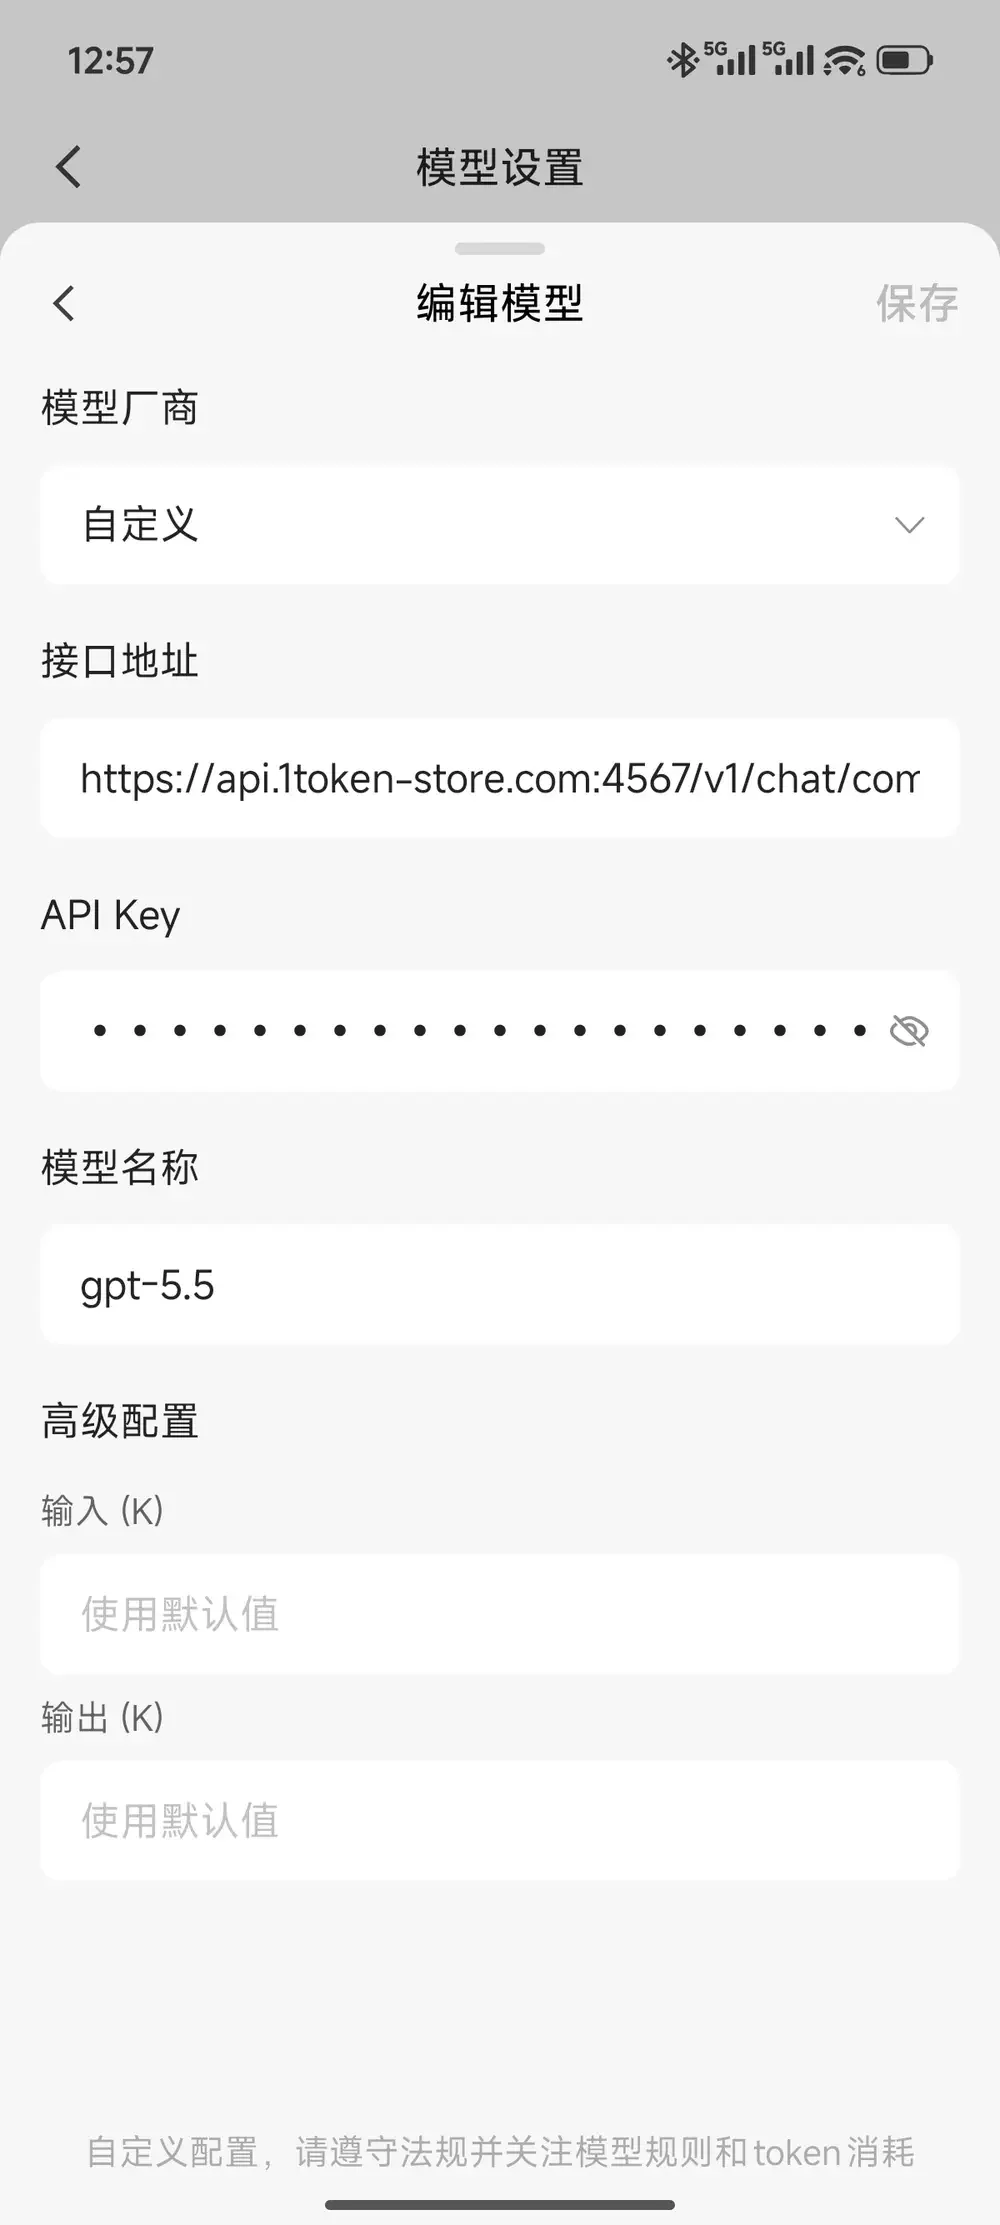
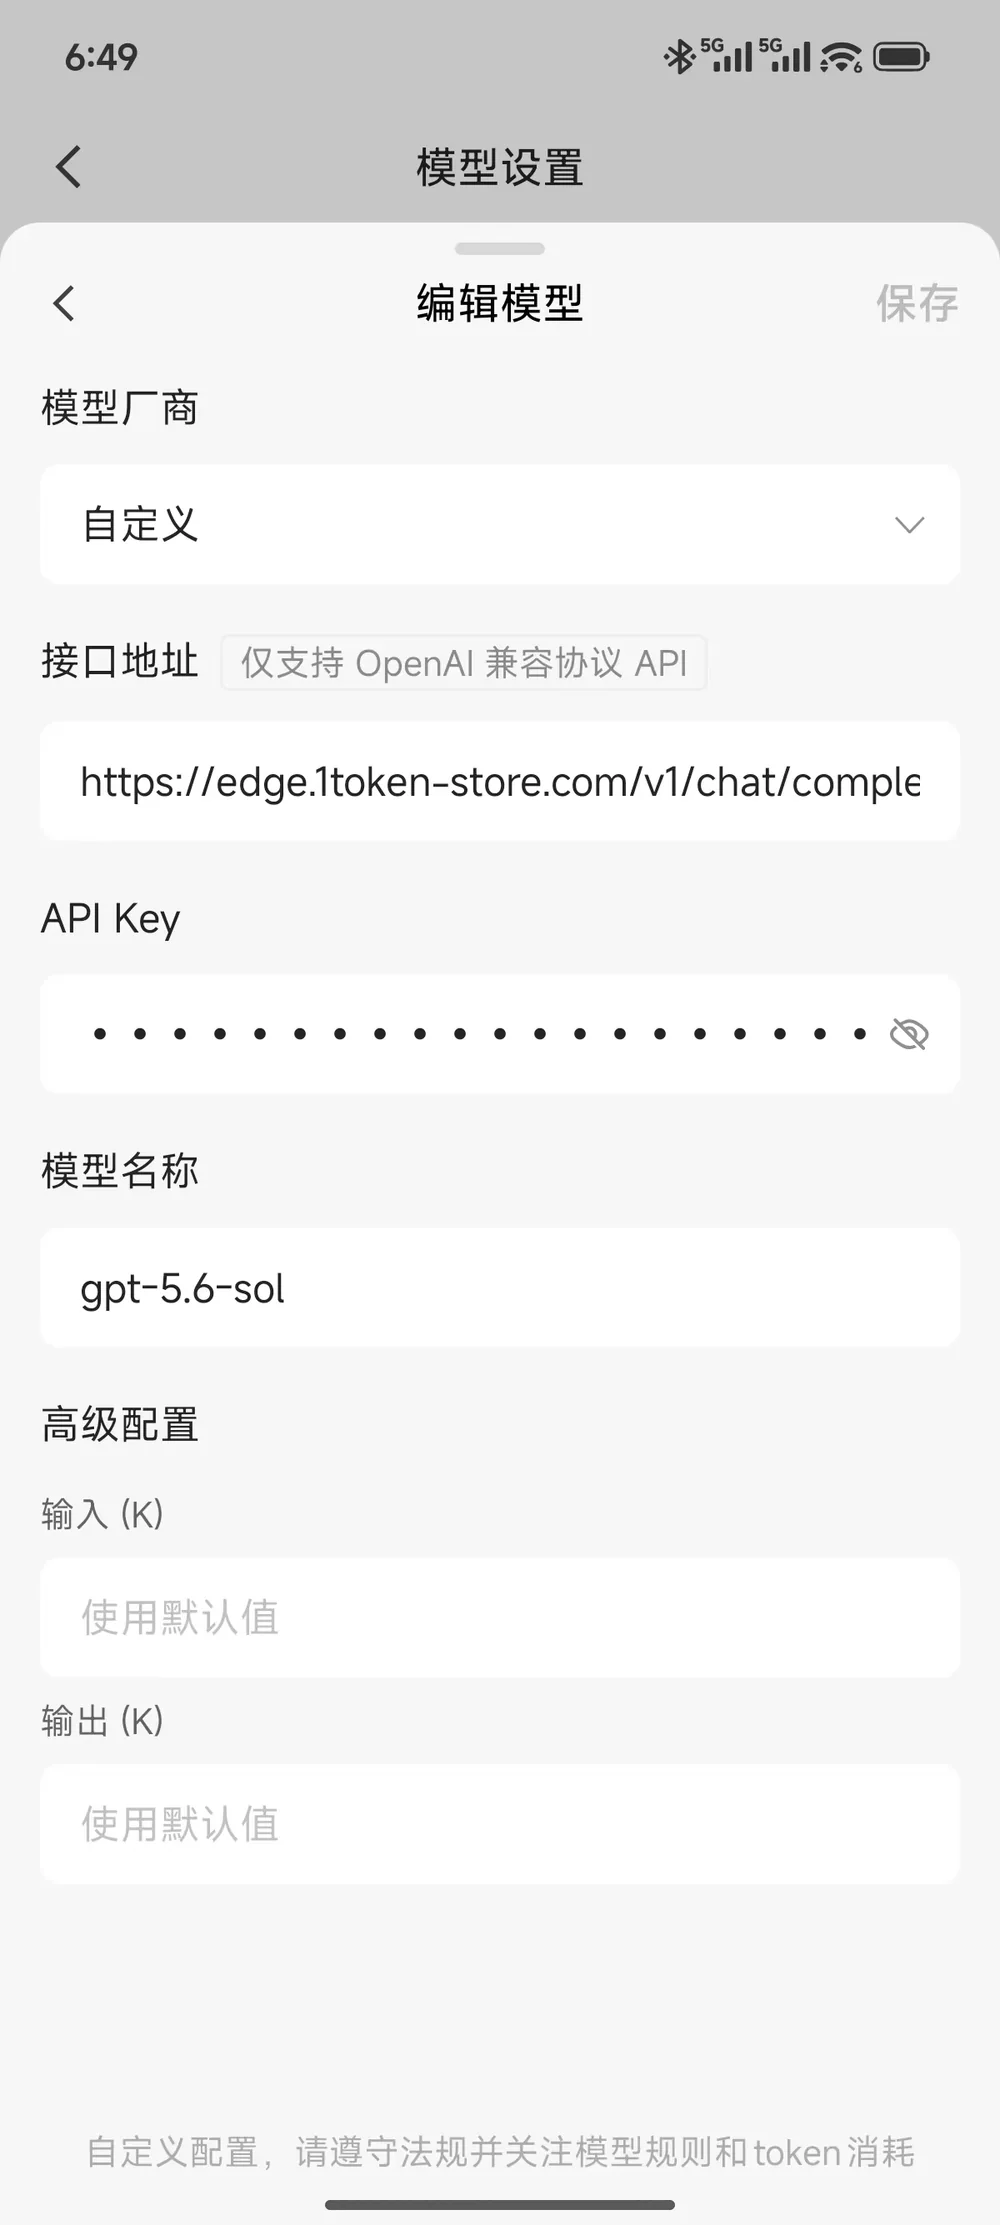
Update integration guides and Codex FAQ

diff --git a/IMA+GPT=精品小龙虾.md b/IMA+GPT=精品小龙虾.md
@@ -18,16 +18,14 @@ ima是腾讯开发的AI工作台，以知识库为核心，支持读搜写。cop
 
 3. 然后在“功能”模块点击“模型设置”，进入模型设置页面，点击“添加自定义模型”，参数分别填
 
-    1. 接口地址，https://api\.1token\-store\.com:4567/v1/chat/completions
+    1. 接口地址，https://edge\.1token\-store\.com/v1/chat/completions
 
     2. API Key，按照这个文档 [TokenToken使用文档](https://givklov4fjz.feishu.cn/docx/YypYdoSCno9bdwxLAuocINyrnlf) 注册申请
 
-    3. 模型名称，gpt\-5\.5
+    3. 模型名称，gpt\-5\.6\-sol
 
 [![Image](docs/public/images/ima-gpt/ima-gpt-02-0ef1f953.webp)](docs/public/images/ima-gpt/ima-gpt-02-0ef1f953.webp)
 
 4. 填好参数点击右上角保存，如果保存失败，建议去官网 [TokenToken](https://1token-store.com/) 核实下账户或订阅是否有额度。保存成功后，点击左侧的图标 “三”，找到copilot，即可开始聊天了。右上角的设置里可以查看copilot的记忆和Skills，越用越丰富。
 
 [![Image](docs/public/images/ima-gpt/ima-gpt-03-39461a41.webp)](docs/public/images/ima-gpt/ima-gpt-03-39461a41.webp)
-
-

diff --git a/docs/guide/ima-gpt.md b/docs/guide/ima-gpt.md
@@ -18,11 +18,11 @@ ima是腾讯开发的AI工作台，以知识库为核心，支持读搜写。cop
 
 3. 然后在“功能”模块点击“模型设置”，进入模型设置页面，点击“添加自定义模型”，参数分别填
 
-    1. 接口地址，<a href="https://api.1token-store.com:4567/v1/chat/completions" target="_blank" rel="noopener noreferrer">TokenToken Chat Completions 接口</a>
+    1. 接口地址，[https://edge.1token-store.com/v1/chat/completions](https://edge.1token-store.com/v1/chat/completions)
 
     2. API Key，按照这个文档 <a href="/guide/token-token" target="_blank" rel="noopener noreferrer">TokenToken使用文档</a> 注册申请
 
-    3. 模型名称，gpt-5.5
+    3. 模型名称，gpt-5.6-sol
 
 <a href="/images/ima-gpt/ima-gpt-02-0ef1f953.webp" target="_blank" rel="noopener noreferrer"><img src="/images/ima-gpt/ima-gpt-02-0ef1f953.webp" alt="Image"></a>
 

diff --git a/docs/guide/codex.md b/docs/guide/codex.md
@@ -189,6 +189,12 @@ auth.json.bak.20260605-120000
 
 
 
+### 7. 怎么更新 Codex？
+
+可从<a href="https://pan.quark.cn/s/4c758e82b7c4?pwd=1D4Z" target="_blank" rel="noopener noreferrer">夸克网盘</a>或<a href="https://pan.baidu.com/s/17vRnYubic2zE_ueq0djXPQ?pwd=9594" target="_blank" rel="noopener noreferrer">百度网盘</a>下载最新版安装包，我会一直更新。macOS 双击安装包即可更新；Windows 把安装包放在“01 一键配置 Codex - Windows.cmd”旁边，然后执行一次一键配置即可更新。
+
+
+
 ## 七、Codex 官方页面
 
 Codex 官方页面：

diff --git a/docs/guide/weixin.md b/docs/guide/weixin.md
@@ -15,6 +15,12 @@
 安装这个技能并帮我启动微信连接器：https://gitee.com/shenchong/chat-codex-connectors-skill
 ```
 
+## 接入效果
+
+连接成功后，即可在微信中向 Codex 发送消息，并在电脑端查看和执行任务。
+
+<a href="/images/weixin/weixin-result.webp" target="_blank" rel="noopener noreferrer"><img src="/images/weixin/weixin-result.webp" alt="微信连接 Codex 后的使用效果"></a>
+
 ## 注意事项
 
 ### 1. 为什么 Codex 桌面端看不到微信聊天产生的会话？

diff --git a/Codex使用教程.md b/Codex使用教程.md
@@ -189,6 +189,12 @@ auth\.json\.bak\.20260605\-120000
 
 
 
+### 7. 怎么更新 Codex？
+
+可从[夸克网盘](https://pan.quark.cn/s/4c758e82b7c4?pwd=1D4Z)或[百度网盘](https://pan.baidu.com/s/17vRnYubic2zE_ueq0djXPQ?pwd=9594)下载最新版安装包，我会一直更新。macOS 双击安装包即可更新；Windows 把安装包放在“01 一键配置 Codex \- Windows\.cmd”旁边，然后执行一次一键配置即可更新。
+
+
+
 # 七、Codex 官方页面
 
 Codex 官方页面：
